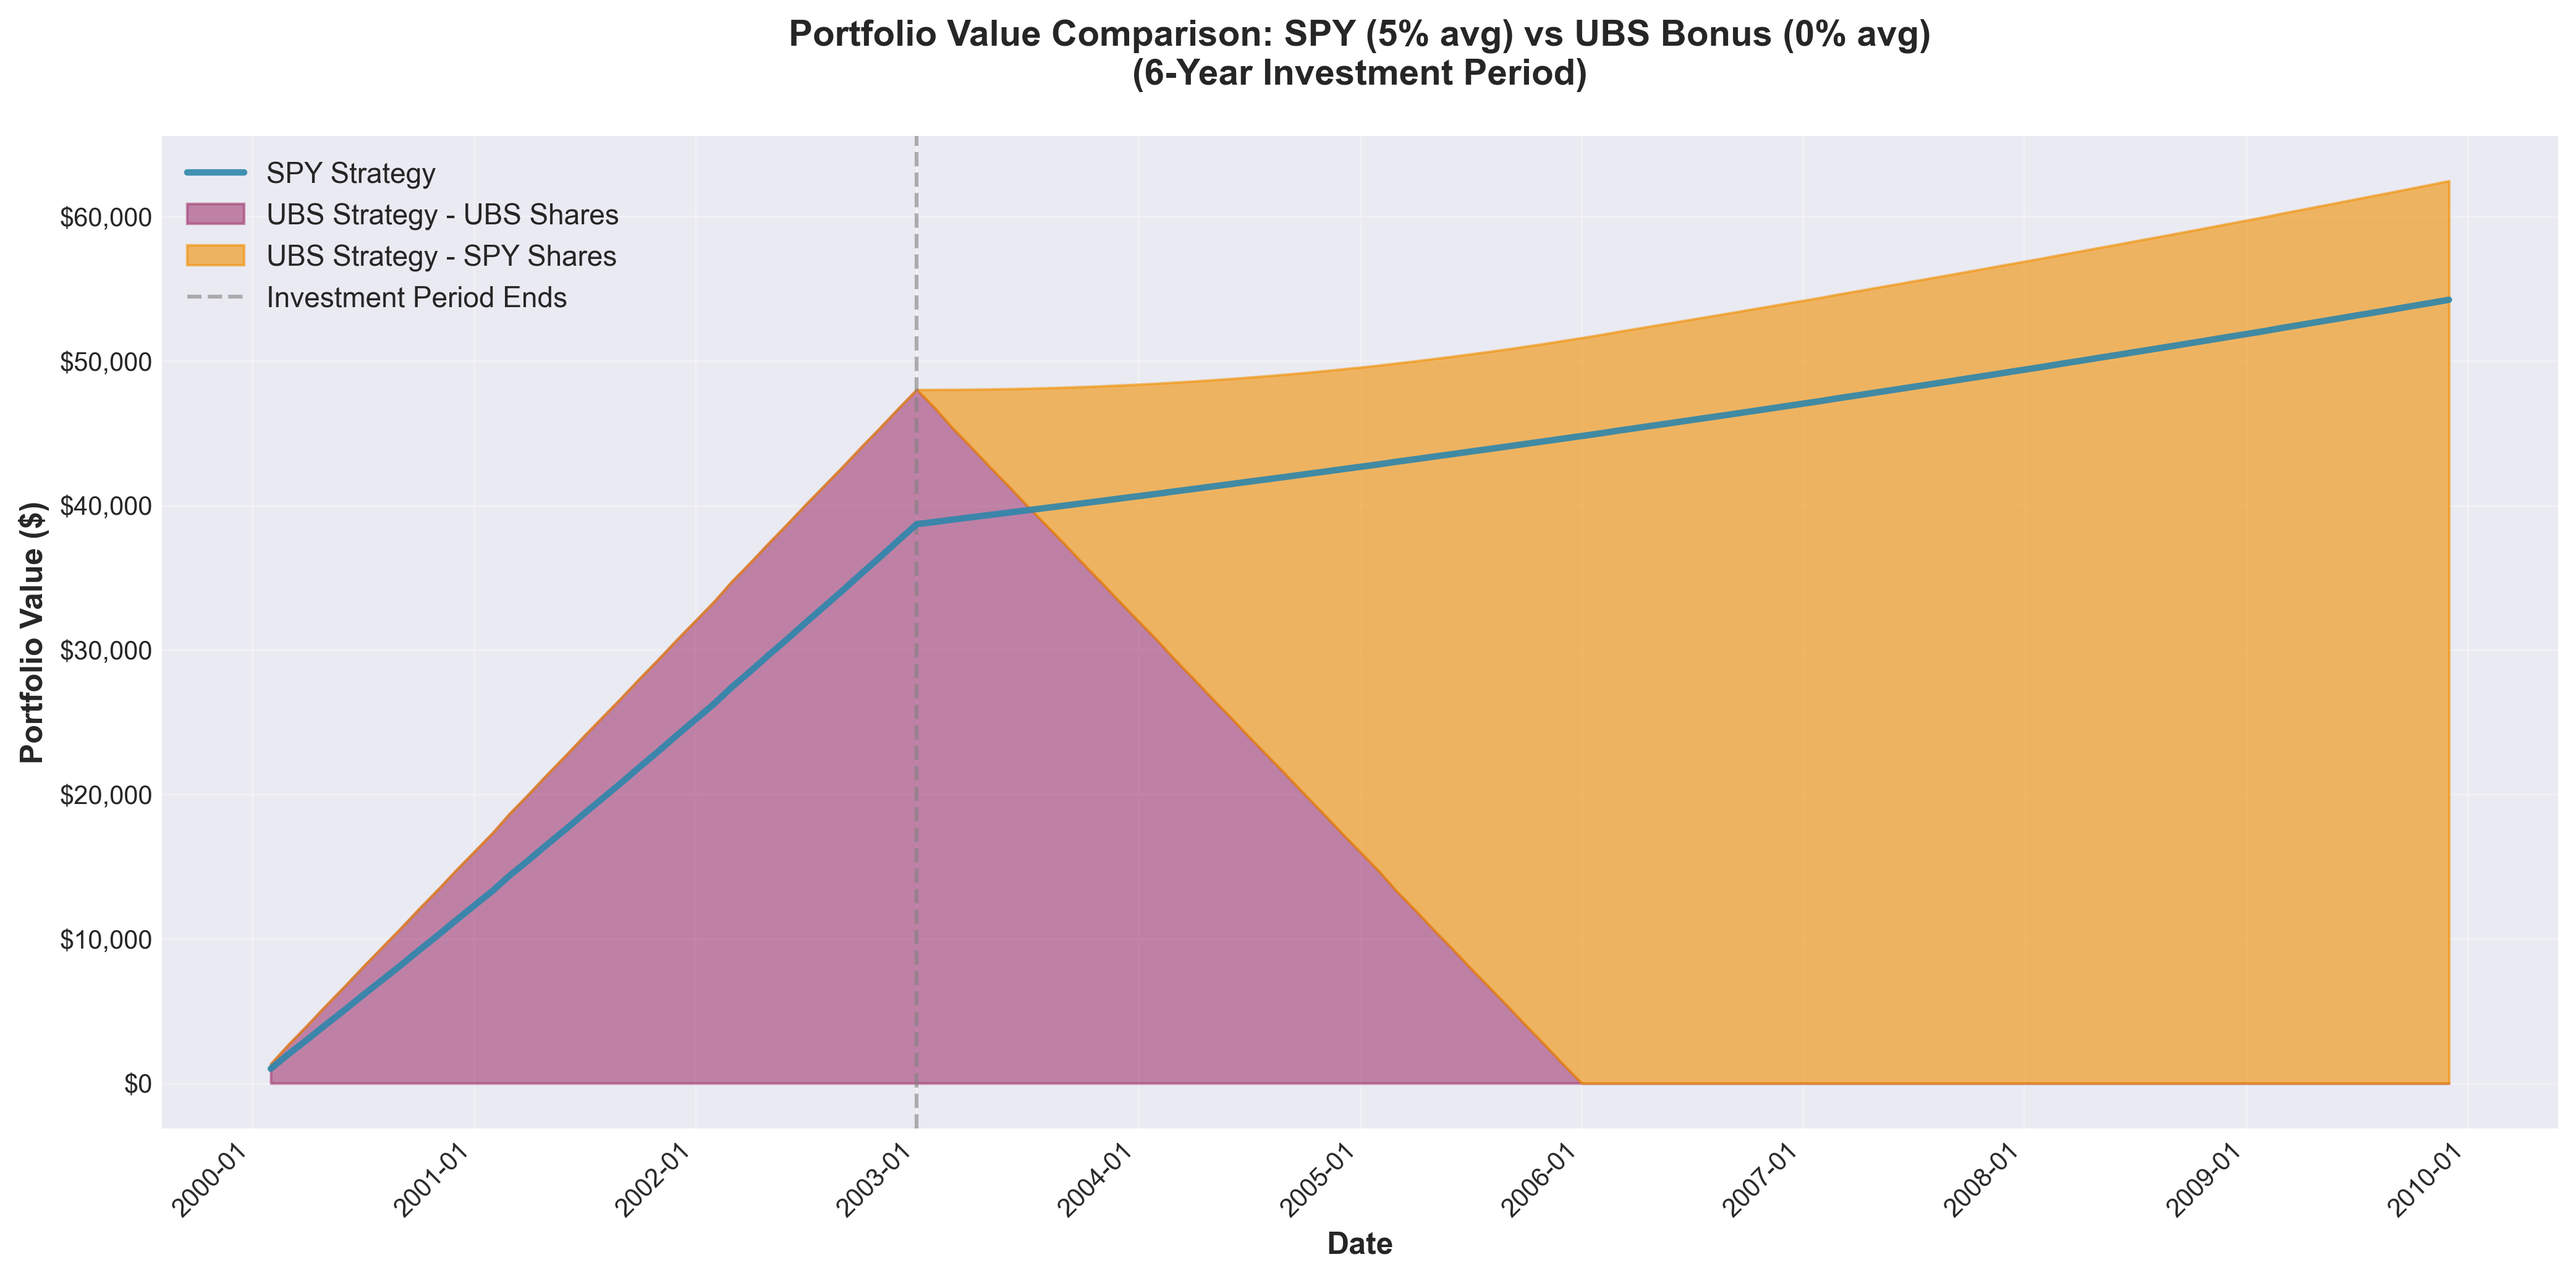
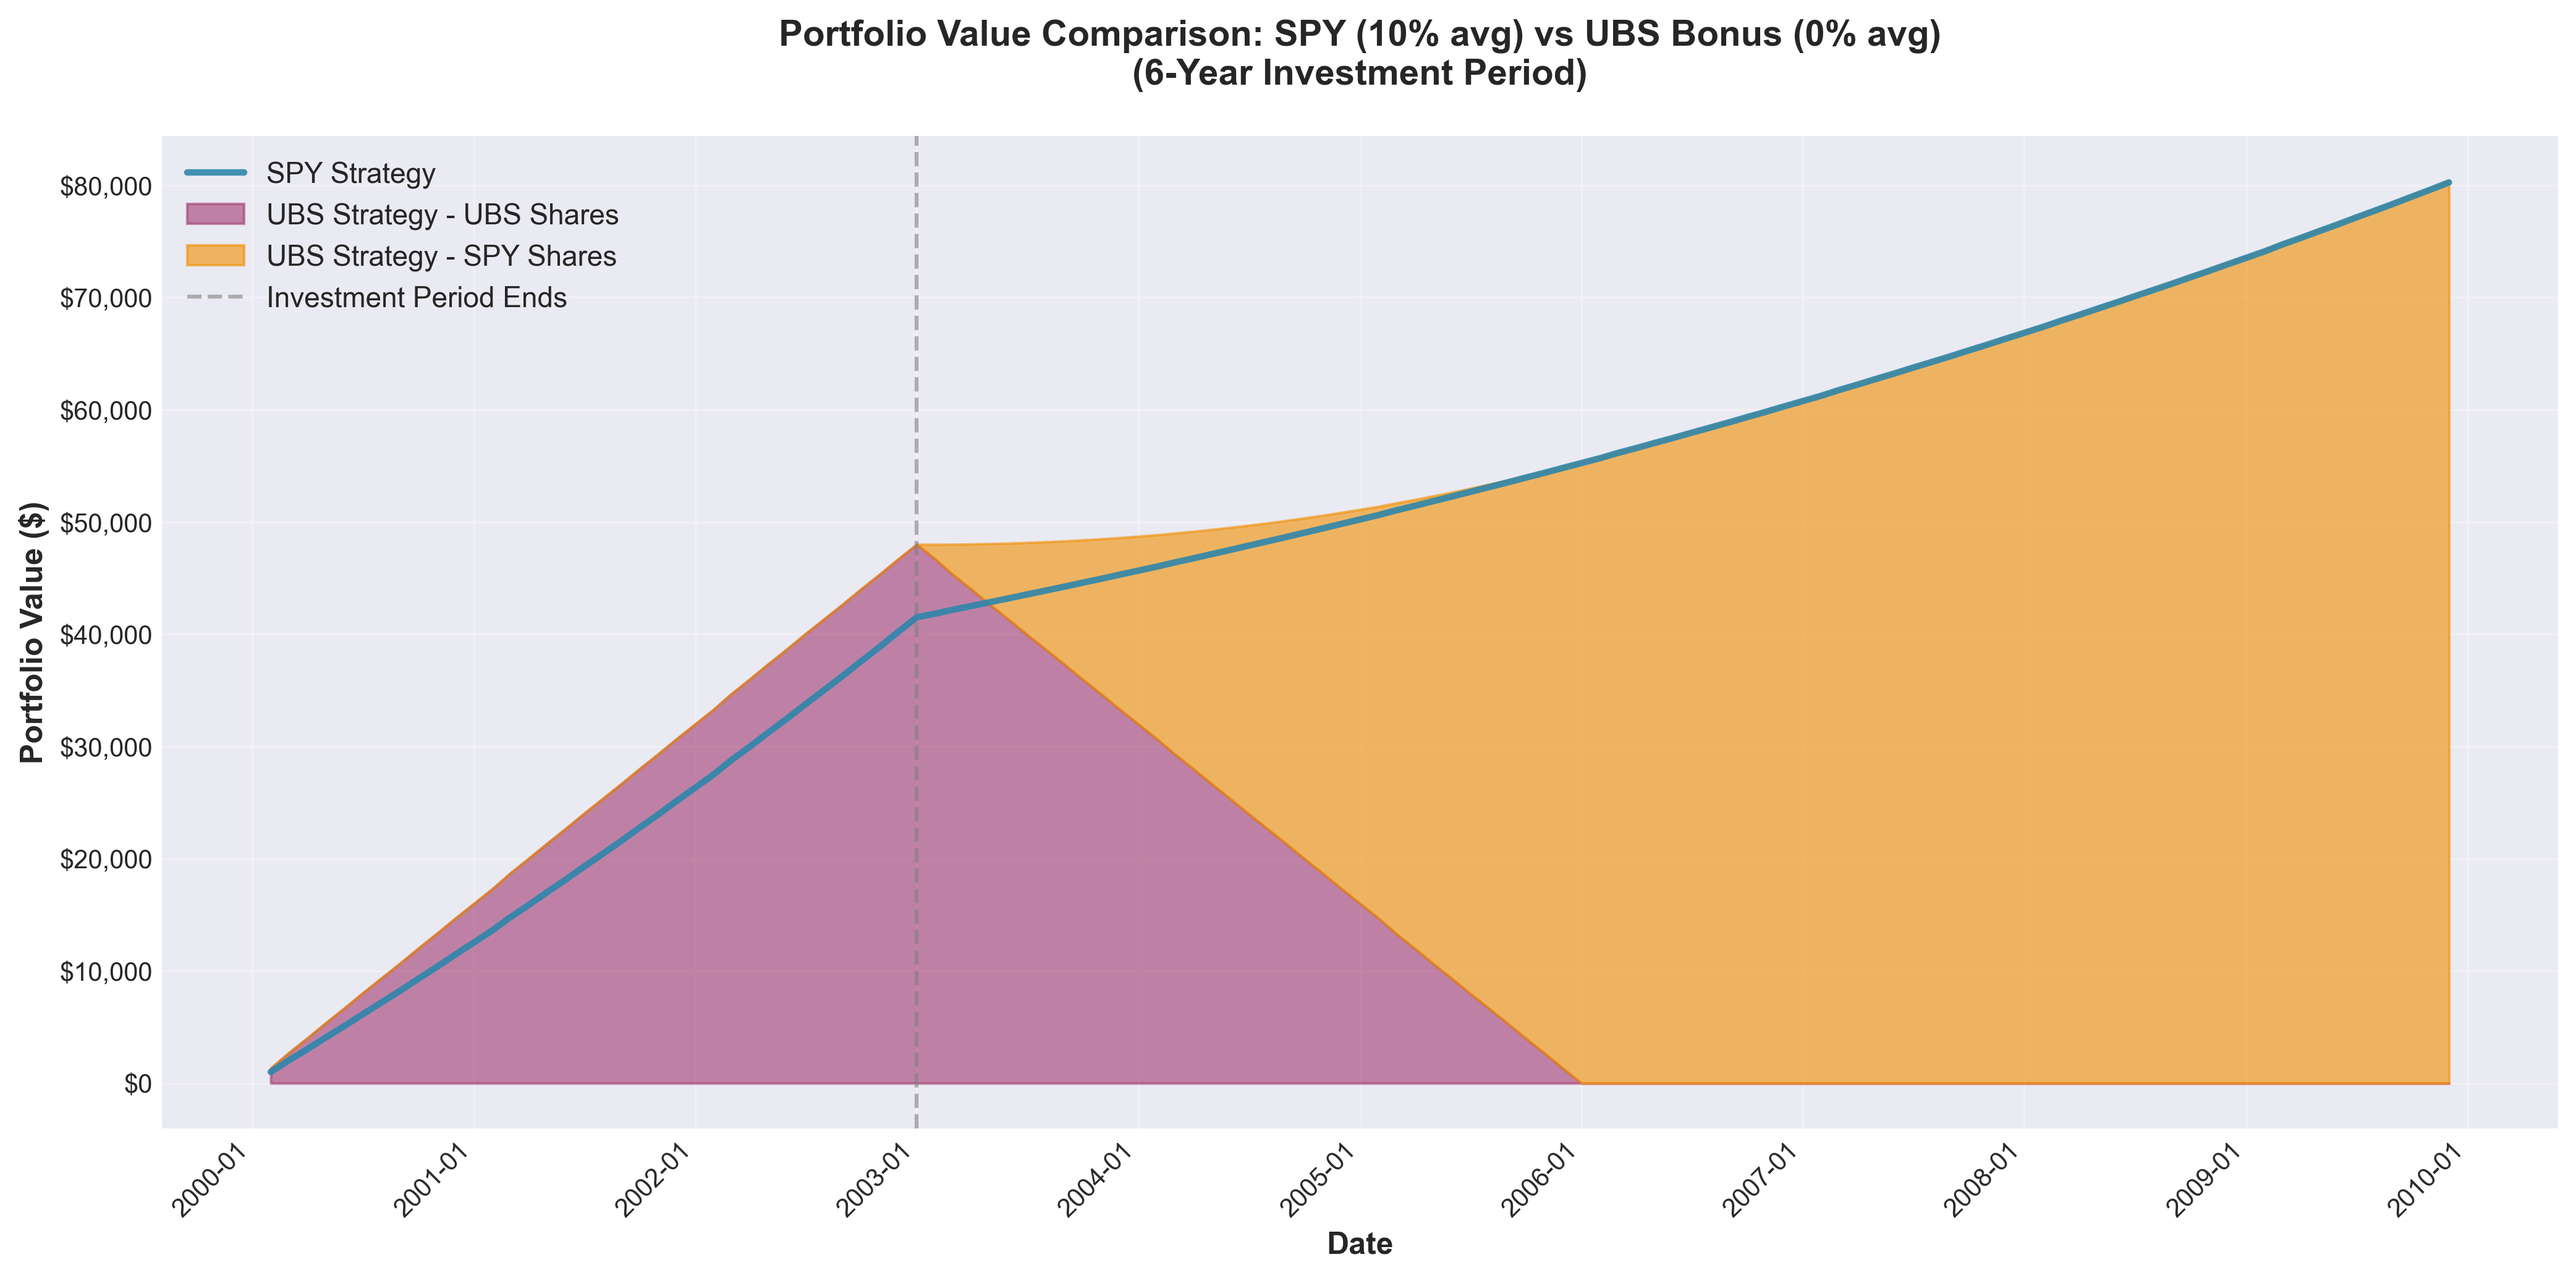
readme added

diff --git a/simulate_returns.py b/simulate_returns.py
@@ -5,7 +5,7 @@ import matplotlib.dates as mdates
 # -------------------------
 # Configuration
 # -------------------------
-SPY_AVG_YEARLY_RETURN = 5  # Average yearly return in percentage
+SPY_AVG_YEARLY_RETURN = 10  # Average yearly return in percentage
 UBS_AVG_YEARLY_RETURN = 0  # Average yearly return in percentage
 MONTHLY_INVESTMENT = 1000
 WINDOW_MONTHS = 120  # 10 years

diff --git a/README.md b/README.md
@@ -1,0 +1,33 @@
+# UBS Stock Comparison Simulation
+
+This project compares two investment strategies over rolling 6-year windows:
+
+1. **SPY Strategy**: Invest $1,000/month in SPY (S&P 500 ETF) for the first 3 years, then let the portfolio grow for the remaining 3 years.
+
+2. **UBS Bonus Strategy**: Invest $1,000/month in UBS stock for the first 3 years, receiving 1/3 bonus shares for free. After exactly 3 years, each purchase matures and all shares (regular + bonus) are sold, with proceeds invested in SPY for the remaining period.
+
+## Scripts
+
+### `simulate.py`
+Simulates both strategies using historical market data from JSON files:
+- `spy_monthly_30y.json`: Historical SPY monthly prices
+- `ubs_monthly_max.json`: Historical UBS monthly prices
+
+The script calculates annualized returns for rolling 6-year windows and generates a comparison chart showing which strategy performs better across different time periods.
+
+### `simulate_returns.py`
+Simulates both strategies using fixed average yearly returns instead of historical data. This allows for scenario analysis with different return assumptions. The script tracks portfolio values over time and visualizes:
+- SPY Strategy: Single line showing total portfolio value
+- UBS Bonus Strategy: Stacked area chart showing UBS shares (purple) and SPY shares (orange) separately
+
+## Key Features
+
+- **Rolling window analysis**: Compare strategies across multiple time periods
+- **Bonus share tracking**: Accurately models UBS bonus shares that mature exactly 3 years after purchase
+- **Portfolio composition visualization**: See how the UBS strategy transitions from UBS to SPY holdings over time
+- **Configurable parameters**: Adjust investment amounts, return rates, and time periods
+
+## Charts
+
+![simulation with market data sliding window](annualized_returns_chart.png)
+![simulation with fixed returns](portfolio_values_chart.png)
